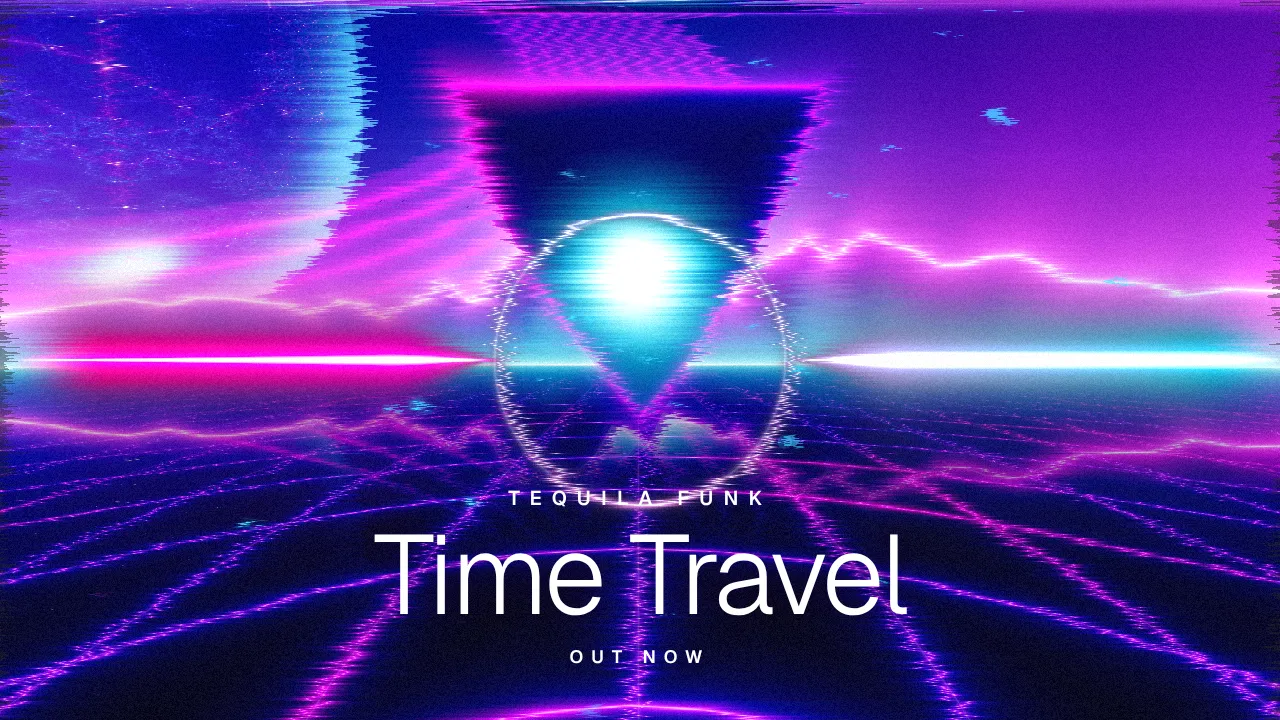
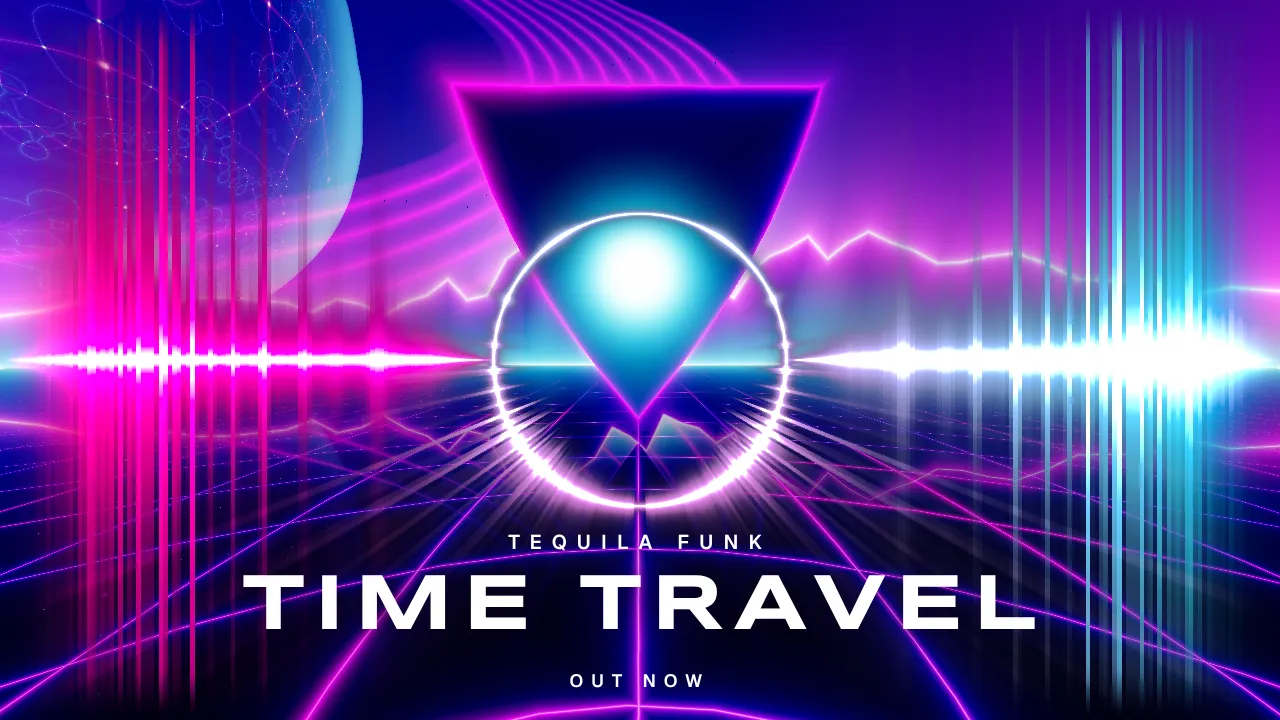
improve: refine homepage scene visuals

diff --git a/apps/site/src/components/scenes/scenes.ts b/apps/site/src/components/scenes/scenes.ts
@@ -41,7 +41,7 @@ export const scenes: readonly SceneSpec[] = [
 			{name: 'Chrome', a: '#2b59ff', b: '#9ad8ff', c: '#ffffff'},
 			{name: 'Acid', a: '#0f9d58', b: '#c6ff3d', c: '#ff5cf0'},
 		],
-		finish: 'vhs',
+		finish: 'none',
 		layers: [
 			layer({
 				slug: 'synthwave',
@@ -66,43 +66,40 @@ export const scenes: readonly SceneSpec[] = [
 					inputGainDb: ctx.energy(-6, 4, 1),
 				}),
 			}),
-			layer({
-				slug: 'audio-particles',
-				props: (ctx) => ({
-					color: ctx.palette.c,
-					radius: span(ctx, 0.42),
-					density: ctx.energy(16, 40, 1),
-					intensity: ctx.energy(2, 7),
-					size: 1.3,
-				}),
-			}),
 		],
-		overlay: ({px}) => [
-			fill(
-				{
-					justifyContent: 'flex-end',
-					alignItems: 'center',
-					paddingBottom: px(52),
-					textAlign: 'center',
-					textShadow: shadow('rgb(10 0 30 / 0.85)'),
-				},
-				box({fontSize: px(20), fontWeight: 600, letterSpacing: px(10)}, 'TEQUILA FUNK'),
-				box(
+		overlay: ({px, W}) => {
+			// The wide letters fill the frame, so narrow formats scale the title by width.
+			const title = Math.min(px(80), Math.round(W * 0.075));
+			return [
+				fill(
 					{
-						marginTop: px(10),
-						fontSize: px(112),
-						fontWeight: 300,
-						lineHeight: 0.95,
-						letterSpacing: -px(3),
+						justifyContent: 'flex-end',
+						alignItems: 'center',
+						paddingBottom: px(28),
+						textAlign: 'center',
+						textShadow: shadow('rgb(10 0 30 / 0.85)'),
 					},
-					'Time Travel',
+					box({fontSize: px(20), fontWeight: 600, letterSpacing: px(10)}, 'TEQUILA FUNK'),
+					box(
+						{
+							marginTop: px(12),
+							fontFamily: 'Syncopate, system-ui, sans-serif',
+							fontSize: title,
+							fontWeight: 700,
+							lineHeight: 1,
+							letterSpacing: Math.round(title * 0.11),
+							paddingLeft: Math.round(title * 0.11),
+							whiteSpace: 'nowrap',
+						},
+						'TIME TRAVEL',
+					),
+					box(
+						{marginTop: px(22), fontSize: px(18), fontWeight: 600, letterSpacing: px(8)},
+						'OUT NOW',
+					),
 				),
-				box(
-					{marginTop: px(18), fontSize: px(18), fontWeight: 600, letterSpacing: px(8)},
-					'OUT NOW',
-				),
-			),
-		],
+			];
+		},
 	},
 	{
 		timing: timing('breakdown'),
@@ -126,6 +123,16 @@ export const scenes: readonly SceneSpec[] = [
 					speed: energy(1, 2.5, 0.25),
 					responsive: energy(1, 6, 0.5),
 					inputGainDb: 0,
+				}),
+			}),
+			layer({
+				slug: 'audio-particles',
+				props: (ctx) => ({
+					color: ctx.palette.c,
+					radius: span(ctx, 0.42),
+					density: ctx.energy(16, 40, 1),
+					intensity: ctx.energy(2, 7),
+					size: 1.3,
 				}),
 			}),
 			layer({

diff --git a/apps/studio/src/fixtures/site-fonts.tsx b/apps/studio/src/fixtures/site-fonts.tsx
@@ -1,19 +1,20 @@
 import {useEffect, useState, type FC} from 'react';
 import {continueRender, delayRender, staticFile} from 'remotion';
 
-// The site's recipes ask for Geist. Renders pass --public-dir=apps/site/static,
-// so load it from there before the first frame.
+// The site's recipes and scenes ask for these. Renders pass --public-dir=apps/site/static,
+// so load them from there before the first frame.
 const fonts = [
-	['Geist', 'fonts/Geist.woff2'],
-	['Geist Mono', 'fonts/GeistMono.woff2'],
+	['Geist', 'fonts/Geist.woff2', '100 900'],
+	['Geist Mono', 'fonts/GeistMono.woff2', '100 900'],
+	['Syncopate', 'fonts/Syncopate-Bold.woff2', '700'],
 ] as const;
 
 const useSiteFonts = () => {
 	const [handle] = useState(() => delayRender('Site fonts'));
 	useEffect(() => {
 		Promise.all(
-			fonts.map(([family, file]) =>
-				new FontFace(family, `url(${staticFile(file)})`, {weight: '100 900'})
+			fonts.map(([family, file, weight]) =>
+				new FontFace(family, `url(${staticFile(file)})`, {weight})
 					.load()
 					.then((font) => document.fonts.add(font)),
 			),

diff --git a/apps/site/src/styles/showcase.css b/apps/site/src/styles/showcase.css
@@ -146,8 +146,8 @@ body.showcase {
 	height: var(--header-height);
 	border-bottom: 1px solid var(--line);
 	background: rgb(7 8 12 / 0.72);
-	backdrop-filter: blur(16px) saturate(150%);
 	-webkit-backdrop-filter: blur(16px) saturate(150%);
+	backdrop-filter: blur(16px) saturate(150%);
 }
 .site-header-inner {
 	display: flex;
@@ -1264,8 +1264,8 @@ body.showcase {
 	height: 28px;
 	border-radius: 50%;
 	background: rgb(0 0 0 / 0.45);
-	backdrop-filter: blur(8px);
 	-webkit-backdrop-filter: blur(8px);
+	backdrop-filter: blur(8px);
 	opacity: 0;
 	transition: opacity 200ms;
 }
@@ -1867,8 +1867,8 @@ body.showcase {
 	border-radius: 50%;
 	background: rgb(8 9 14 / 0.6);
 	color: #fff;
-	backdrop-filter: blur(10px);
 	-webkit-backdrop-filter: blur(10px);
+	backdrop-filter: blur(10px);
 	cursor: pointer;
 	transition: background 160ms var(--ease-out);
 }

diff --git a/apps/site/src/styles/tokens.css b/apps/site/src/styles/tokens.css
@@ -12,6 +12,13 @@
 	font-weight: 100 900;
 	font-display: swap;
 }
+@font-face {
+	font-family: Syncopate;
+	src: url('/fonts/Syncopate-Bold.woff2') format('woff2');
+	font-style: normal;
+	font-weight: 700;
+	font-display: swap;
+}
 
 /* Shared by the showcase and docs. Reserve purple for focus, live states and prose links. */
 :root {

diff --git a/apps/site/src/styles/docs.css b/apps/site/src/styles/docs.css
@@ -42,8 +42,8 @@ body {
 	position: absolute;
 	z-index: -1;
 	inset: 0;
-	backdrop-filter: blur(16px) saturate(150%);
 	-webkit-backdrop-filter: blur(16px) saturate(150%);
+	backdrop-filter: blur(16px) saturate(150%);
 	content: '';
 }
 .docs-header {
